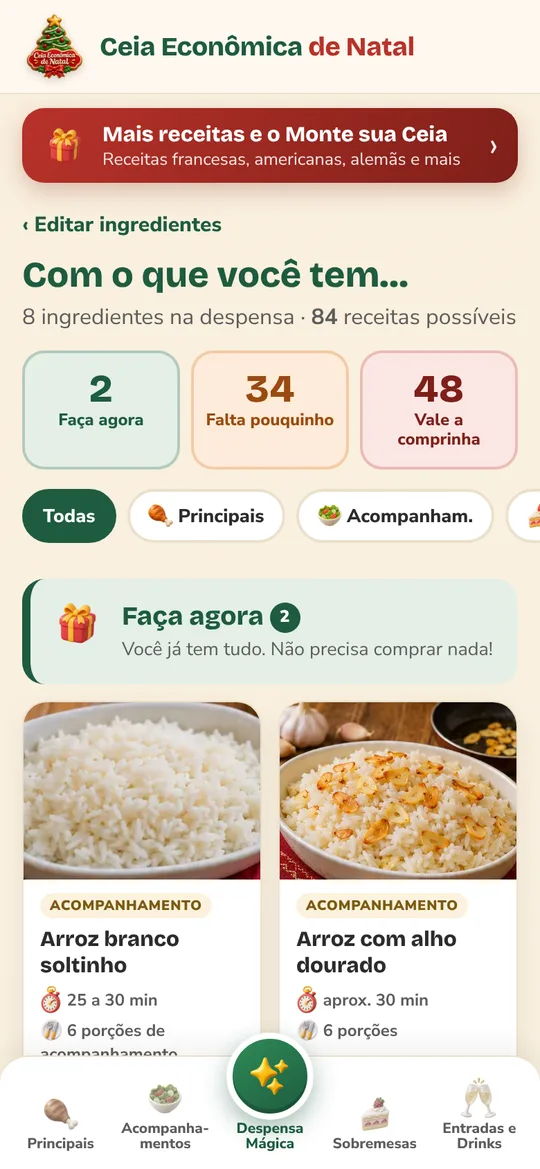
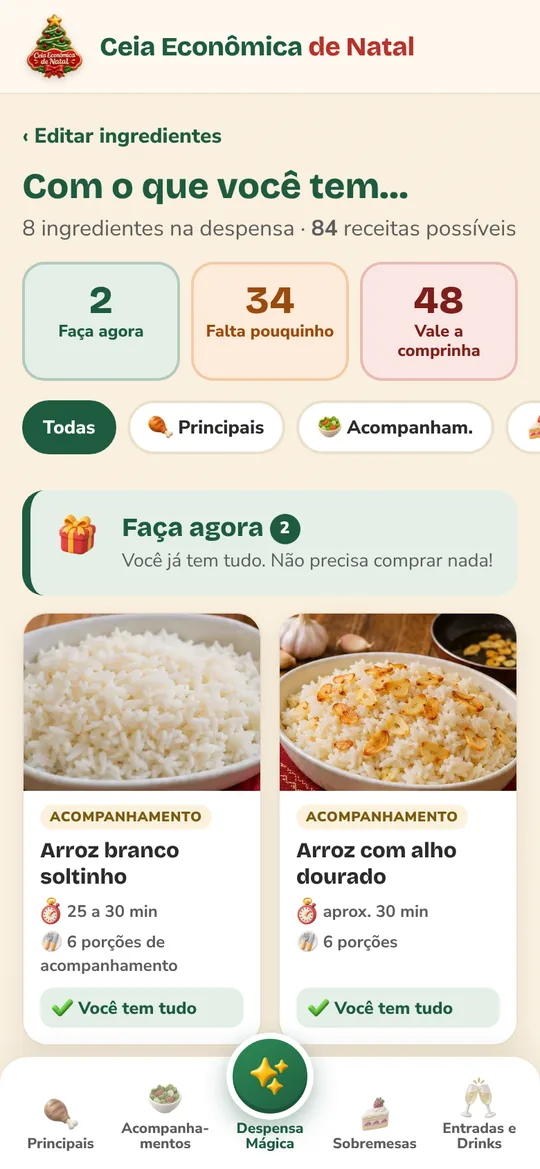
V1: demonstração mais curta (até favoritar e fechar a receita), sem código e sem produtos pagos
Claude-Session: https://claude.ai/code/session_012D3HE3v3SXisXWmQKJ8WBn

diff --git a/app-demo/js/demo.js b/app-demo/js/demo.js
@@ -5,7 +5,7 @@
      demo=1      liga o modo demonstração (obrigatório)
      som=1       liga os sons e a vibração (desligados por padrão)
      moldura=0   não desenha a moldura de celular (use quando a página já desenha o celular por fora)
-     passo=N     começa direto na etapa N (1 a 6), para testes
+     passo=N     começa direto na etapa N (1 a 3), para testes
      auto=0      espera a mensagem "ceia-demo:continuar" da página antes de começar
 
    Mensagens aceitas via postMessage (da página que contém o iframe):
@@ -19,7 +19,7 @@
 
   const Q = new URLSearchParams(location.search);
   const MOLDURA = Q.get('moldura') !== '0';
-  const PASSO_INICIAL = Math.min(6, Math.max(1, parseInt(Q.get('passo'), 10) || 1));
+  const PASSO_INICIAL = Math.min(3, Math.max(1, parseInt(Q.get('passo'), 10) || 1));
   let pausadoFora = Q.get('auto') === '0';
   const VEL = 0.84;   // ritmo geral (menor = mais rápido); a digitação continua entre 90 e 140 ms por letra
 
@@ -28,6 +28,7 @@
   css.textContent = `
     body.demo{-webkit-user-select:none;user-select:none}
     body.demo #btnSom{visibility:hidden}
+    body.demo #faixaExtras{display:none!important}
     .demo-toque{position:fixed;z-index:2147483000;width:46px;height:46px;margin:-23px 0 0 -23px;border-radius:50%;
       background:rgba(255,255,255,.55);border:2.5px solid rgba(255,255,255,.95);box-shadow:0 2px 12px rgba(0,0,0,.35);
       pointer-events:none;transform:scale(.6);opacity:0;transition:transform .14s ease,opacity .14s ease}
@@ -175,8 +176,6 @@
     el.classList.remove('demo-foco');
   }
 
-  function ir(hash) { if (location.hash !== hash) location.hash = hash; }
-
   /* ---------------------------------------------------------------- o roteiro */
   const ING_DEMO = ['frango-inteiro', 'batata', 'cebola', 'alho', 'leite-condensado', 'creme-de-leite', 'ovos', 'arroz'];
 
@@ -239,52 +238,11 @@
     await tocar('.folha.on [data-fechar].fechar', v, 500);
   }
 
-  async function etapa4(v) {   // Abas
-    await tocar('.abas a[data-aba="sobremesas"]', v, 700);
-    await rolarPor(520, v, 1400);
-    await espera(500, v);
-    await tocar('.abas a[data-aba="entradas"]', v, 600);
-    await tocar('[data-sub="bebida"]', v, 600);
-    await rolarPor(480, v, 1300);
-    await espera(500, v);
-  }
-
-  async function etapa5(v) {   // Extras com código (falso) e pacote francês
-    await rolar(window, 0, v, 500);
-    await tocar('#faixaExtras', v, 700);
-    await tocar('[data-tenho="franca"]', v, 300);
-    await digitar('#cod-franca', '2512250', v);
-    await espera(250, v);
-    await tocar('form[data-codigo="franca"] button[type="submit"]', v, 1500);
-    await tocar('[data-prod="franca"] a.btn-prod', v, 800);
-    await rolarPor(700, v, 1600);
-    await espera(400, v);
-    await rolarPor(600, v, 1400);
-    await espera(400, v);
-  }
-
-  async function etapa6(v) {   // Monte sua Ceia
-    API.liberar('montar');
-    ir('#/montar');
-    await achar('#btnMontar', v);
-    await espera(900, v);
-    await tocar('[data-qtd="principal"][data-d="1"]', v, 600);
-    await tocar('[data-qtd="sobremesa"][data-d="1"]', v, 700);
-    await tocar('#btnMontar', v, 1300);
-    await rolarPor(520, v, 1300);
-    await espera(700, v);
-    const btn = await achar('#btnMontar', v);
-    await rolarAte(btn, v, 0.4, 800);
-    await tocar('#btnMontar', v, 1400);
-  }
-
-  const ETAPAS = [etapa1, etapa2, etapa3, etapa4, etapa5, etapa6];
+  const ETAPAS = [etapa1, etapa2, etapa3];
 
   /* prepara o estado para começar no meio do roteiro (&passo=N) */
   function preparar(n) {
-    if (n >= 2 && n <= 3) { API.encherDespensa(ING_DEMO); API.mostrarResultados(); }
-    if (n === 4) API.encherDespensa(ING_DEMO);
-    if (n === 5) { API.encherDespensa(ING_DEMO); ir('#/sobremesas'); }
+    if (n >= 2) { API.encherDespensa(ING_DEMO); API.mostrarResultados(); }
   }
 
   async function rodar() {

diff --git a/index.html b/index.html
@@ -1031,7 +1031,7 @@ function salesPage() {
       <h2 class="tit">Veja por dentro do <mark class="mt">aplicativo</mark>…</h2>
       <div class="pv-carrossel" data-carrossel>
         <div class="pv-carrossel__trilho">
-          ${[["exemplo-1.webp", "Passo a passo: toque para marcar o que já fez"], ["exemplo-2.webp", "Monte sua Ceia: um cardápio sorteado na hora"], ["exemplo-3.webp", "Sobremesas de Natal com foto e tempo de preparo"]].map(([f, t]) => `<figure class="pv-carrossel__slide">${appPrint(f, 220, t)}<figcaption class="pv-carrossel__tag"><img src="img/ui/lampada.webp" alt="" width="24" height="24"> ${t}</figcaption></figure>`).join("")}
+          ${[["exemplo-1.webp", "Passo a passo: toque para marcar o que já fez"], ["exemplo-2.webp", "Pratos principais com foto, tempo e rendimento"], ["exemplo-3.webp", "Sobremesas de Natal com foto e tempo de preparo"]].map(([f, t]) => `<figure class="pv-carrossel__slide">${appPrint(f, 220, t)}<figcaption class="pv-carrossel__tag"><img src="img/ui/lampada.webp" alt="" width="24" height="24"> ${t}</figcaption></figure>`).join("")}
         </div>
         <button class="pv-carrossel__seta pv-carrossel__seta--ant" type="button" data-dir="-1" aria-label="Anterior">‹</button>
         <button class="pv-carrossel__seta pv-carrossel__seta--prox" type="button" data-dir="1" aria-label="Próximo">›</button>

diff --git a/app-demo/js/app.js b/app-demo/js/app.js
@@ -684,7 +684,6 @@
         if (location.hash !== '#/despensa') history.replaceState(null, '', '#/despensa');
         rota(); window.scrollTo(0, 0);
       },
-      liberar(pid) { liberados.add(pid); guardar('liberados', [...liberados]); atualizarVisiveis(); pintarFaixa(); },
       encherDespensa(ks) { ks.forEach(k => ING[k] && despensa.add(k)); salvarDespensa(); },
       mostrarResultados() { dm.modo = 'resultados'; abaAtual = null; if (location.hash !== '#/despensa') history.replaceState(null, '', '#/despensa'); rota(); },
     };
